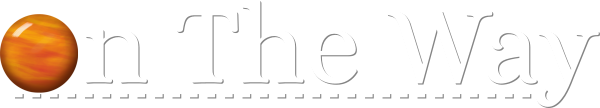
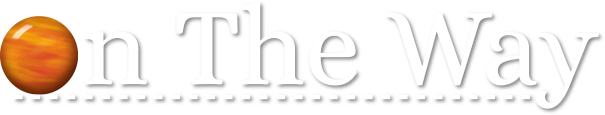
Update styles

diff --git a/index.css b/index.css
@@ -26,7 +26,7 @@ body {
 
 .titleContainer {
     margin: auto;
-    max-width: 600px;
+    max-width: 605px;
 }
 
 .title {
